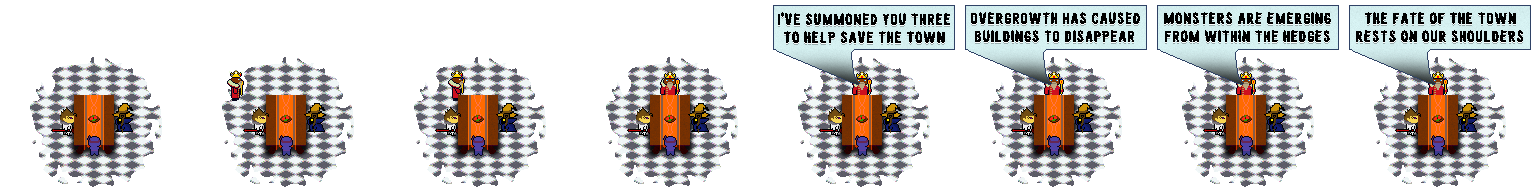
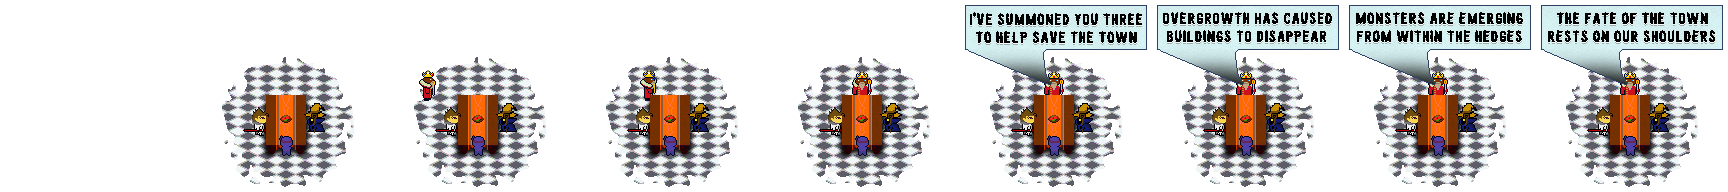
storyline

diff --git a/game/gameengine.js b/game/gameengine.js
@@ -55,14 +55,17 @@ class GameEngine {
         this._surfaceHeight = this._ctx.canvas.height;
         this._entities = [];
         this._entities[LAYERS.FLOOR] = [];
+        this._entities[LAYERS.SPAWNERS] = [];
         this._entities[LAYERS.REMNANTS] = [];
         this._entities[LAYERS.PUDDLEREMNANTS] = [];
+        this._entities[LAYERS.OBJECTS] = [];
         this._entities[LAYERS.ENEMIES] = [];
         this._entities[LAYERS.ENEMY_PROJECTILES] = [];
         this._entities[LAYERS.PICKUPS] = [];
-        this._entities[LAYERS.PLAYER_PROJECTILES] = [];
         this._entities[LAYERS.MAIN] = [];
+        this._entities[LAYERS.PLAYER_PROJECTILES] = [];
         this._entities[LAYERS.WALL] = [];
+        this._entities[LAYERS.DOOR] = [];
         this._entities[LAYERS.PARTICLES] = [];
         this._entities[LAYERS.HUD] = [];
         this._entities[LAYERS.PRIORITY] = [];
@@ -122,26 +125,27 @@ class GameEngine {
      * @param {*} ctx The HTML canvas' 2D context.
      */
     init() {
-        this.audioManager = new AudioManager();
-        //this.LoadLevel(new Level1(), [new BlackMage(), new Ninja()]);
-        let level;
-        if (sessionStorage.getItem('level') === 'endless') {
-            level = new Endless();
-        } else {
-            level = new (eval("Level" + sessionStorage.getItem('level')))();
-        }
-        
-        console.log(this.audioManager);
-        
-        this.audioManager.setMasterVolume(parseFloat(sessionStorage.getItem('master_volume')));
-        this.audioManager.setMusicVolume(parseFloat(sessionStorage.getItem('music_volume')));
-        this.audioManager.setSFXVolume(parseFloat(sessionStorage.getItem('gameplay_volume')));
-                        console.log(this.audioManager);
-
-        this.LoadLevel(level, parseNPC(sessionStorage.getItem('npcs')));
         this.startInput();
         this._clock = new Clock();
         new Crosshair(this);
+        if (sessionStorage.getItem('level') === '0') {
+            new Story(this);
+        } else {
+            this.audioManager = new AudioManager();
+            //this.LoadLevel(new Level1(), [new BlackMage(), new Ninja()]);
+            let level;
+            if (sessionStorage.getItem('level') === 'endless') {
+                level = new Endless();
+            } else {
+                level = new (eval("Level" + sessionStorage.getItem('level')))();
+            }
+            
+            this.audioManager.setMasterVolume(parseFloat(sessionStorage.getItem('master_volume')));
+            this.audioManager.setMusicVolume(parseFloat(sessionStorage.getItem('music_volume')));
+            this.audioManager.setSFXVolume(parseFloat(sessionStorage.getItem('gameplay_volume')));
+
+            this.LoadLevel(level, parseNPC(sessionStorage.getItem('npcs')));
+        }
         this.addEntity(this._camera, LAYERS.PRIORITY);
     }
 
@@ -265,7 +269,6 @@ class GameEngine {
         }
         this.timers = [];
         this.destroyedLevel = true;
-        console.log("destroyed level");
     }
 
     /**

diff --git a/game/story.js b/game/story.js
@@ -1,0 +1,59 @@
+class Story {
+    constructor(game) {
+        this._game = game;
+        game.addEntity(this, LAYERS.FLOOR);
+        this._animation = new Animation(game.AM.getAsset("./img/story.png"), 192, 192,
+            {x: 0, y: 0}, {x: 8, y: 0}, 0, false, STANDARD_DRAW_SCALE);
+        this._phase = 0;
+        this._locked = false;
+        this._timed = 0;
+    }
+
+    update() {
+        if (this._game.click && !this._locked) {
+            this._phase++;
+            if (this._phase === 1) this._locked = true;
+            if (this._phase >= 9) this.destroy();
+        }
+        if (this._phase > 0 && this._phase < 5) {
+            this._timed += this._game._clockTick;
+            this._phase = Math.floor(1 + this._timed);
+            if (this._phase >= 5) this._locked = false;
+        }
+
+        this._animation.setFrame(this._phase);
+
+    }
+
+    draw(ctx) {
+        this._animation.drawFrame(this._game._clockTick, ctx, ctx.canvas.width / 2, ctx.canvas.height / 2, true);
+    }
+
+    destroy() {
+        this.removeFromWorld = true;
+        sessionStorage.setItem('level', '1');
+
+        this._game.audioManager = new AudioManager();
+        let level;
+        if (sessionStorage.getItem('level') === 'endless') {
+            level = new Endless();
+        } else {
+            level = new (eval("Level" + sessionStorage.getItem('level')))();
+        }
+
+        let c = new BlackMage();
+        let remaining = [new NPC(this._game, c, c.stats.maxHP)];
+        this._game._camera._zoom = (224 * 224);
+        this._game._camera._desiredZoom = (224 * 224);
+        let trans = new Transition(this._game, remaining, {x: 0, y: 0}, new level.constructor());
+        trans._phase = 1;
+        this._game.audioManager.setMasterVolume(parseFloat(sessionStorage.getItem('master_volume')));
+        this._game.audioManager.setMusicVolume(parseFloat(sessionStorage.getItem('music_volume')));
+        this._game.audioManager.setSFXVolume(parseFloat(sessionStorage.getItem('gameplay_volume')));
+        this._game.audioManager.setMusic('changingLevel');
+        this._game.audioManager.pauseMusic();
+        this._game.audioManager.restartMusic();
+        this._game.audioManager.playMusic();
+        //this._game.LoadLevel(level, parseNPC(sessionStorage.getItem('npcs')));
+    }
+}

diff --git a/game/hud/npc.js b/game/hud/npc.js
@@ -1,6 +1,8 @@
 class NPC extends Entity {
     constructor(game, characterClass, hp, hover = false) {
-        super(game, characterClass.npc.x , characterClass.npc.y + (game.sceneManager.level.spawn.y * 96));
+        let spawnOff = 0;
+        if (game.sceneManager.level && game.sceneManager.level.spawn) spawnOff = game.sceneManager.level.spawn.y * 96;
+        super(game, characterClass.npc.x , characterClass.npc.y + spawnOff);
         this.characterClass = characterClass;
         this.hp = hp;
         this.animation = characterClass.animation.idleRight;

diff --git a/game/index.html b/game/index.html
@@ -53,6 +53,7 @@
 	<script type="text/javascript" src="./collision.js"></script>
 	<script type="text/javascript" src="./color.js"></script>
     <script type="text/javascript" src="./clock.js"></script>
+    <script type="text/javascript" src="./story.js"></script>
     <script type="text/javascript" src="./transition.js"></script>
     <script type="text/javascript" src="./scenemanager.js"></script>
     <script type="text/javascript" src="./gameengine.js"></script>

diff --git a/menuJS/index.js b/menuJS/index.js
@@ -13,7 +13,7 @@ if (sessionStorage.getItem('master_volume') === null
 function story() {
     //sessionStorage.setItem('level', '5');
     //sessionStorage.setItem('npcs', 'BlackMage Lancer Ninja King');
-    sessionStorage.setItem('level', '1');
+    sessionStorage.setItem('level', '0');
     sessionStorage.setItem('npcs', 'BlackMage');
     window.location.href = './game/index.html';
 }

diff --git a/game/scenemanager.js b/game/scenemanager.js
@@ -51,7 +51,6 @@ class SceneManager {
         // Remaining party members as NPC's.
         let remaining = [];
 
-        console.log(this.game.player);
         remaining.push(new NPC(this.game, this.game.player.characterClass, this.game.player.characterClass.stats.maxHP));
         this.game.player.destroy();
         this.game.player = {x: 0, y: 0};

diff --git a/game/main.js b/game/main.js
@@ -15,6 +15,7 @@ window.onbeforeunload = function() {
 
 const ASSET_MANAGER = new AssetManager();
 
+ASSET_MANAGER.queueDownload("./img/story.png");
 ASSET_MANAGER.queueDownload("./img/map/grounds.png");
 ASSET_MANAGER.queueDownload("./img/map/pit.png");
 ASSET_MANAGER.queueDownload("./img/map/walls.png");

diff --git a/game/animation.js b/game/animation.js
@@ -149,7 +149,7 @@ class Animation {
         let cF;
 		if(this._paused !== true && this._paused !== false)
 		{
-			console.log(this._paused);
+			//console.log(this._paused);
 		}
 		cF = this.currentFrame();
         
